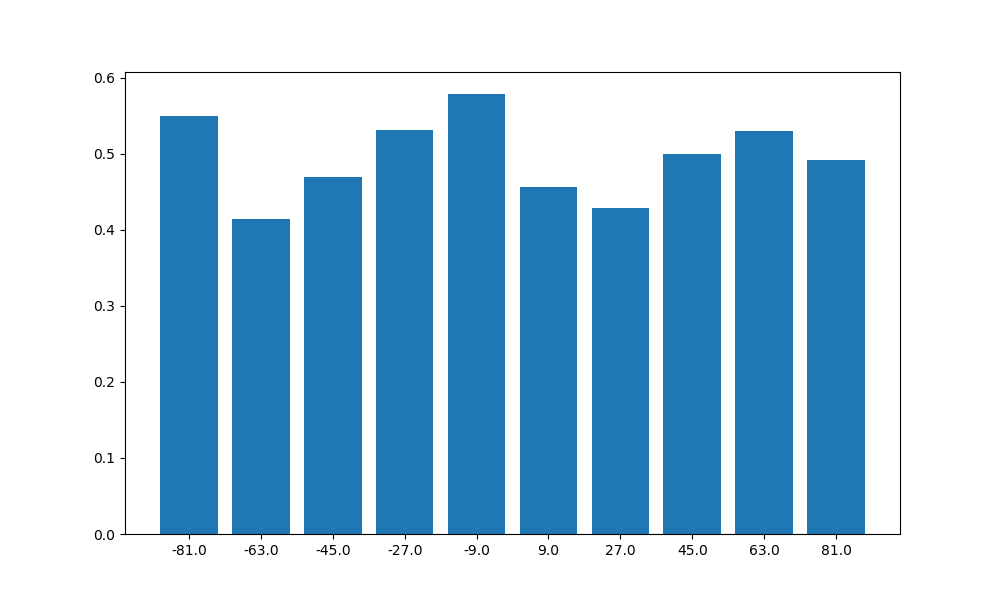
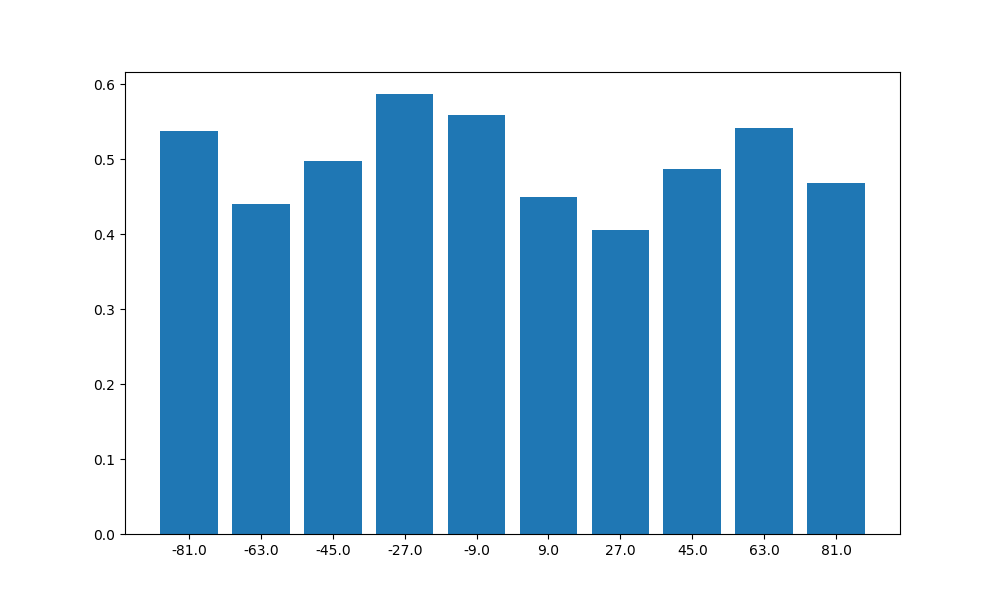
generating figures

diff --git a/code/main_analysis.py b/code/main_analysis.py
@@ -23,8 +23,8 @@ meg_subj_lst = [
     "NN",
     "JL",
     "DI",
-    "TE",
-    "SoM",
+    #"TE",
+    #"SoM",
 ]
 
 aligned_dir = {
